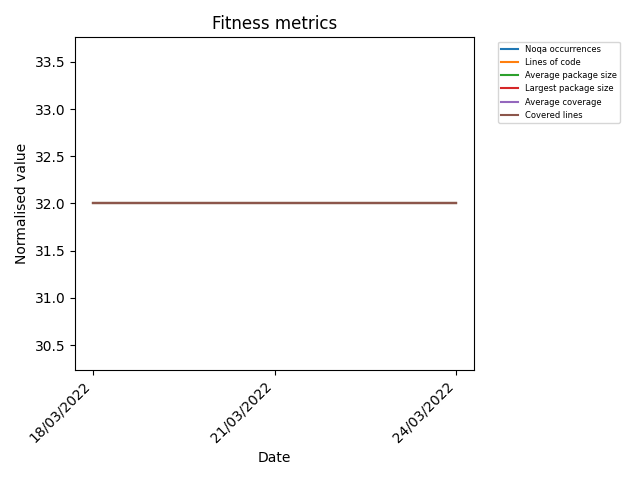
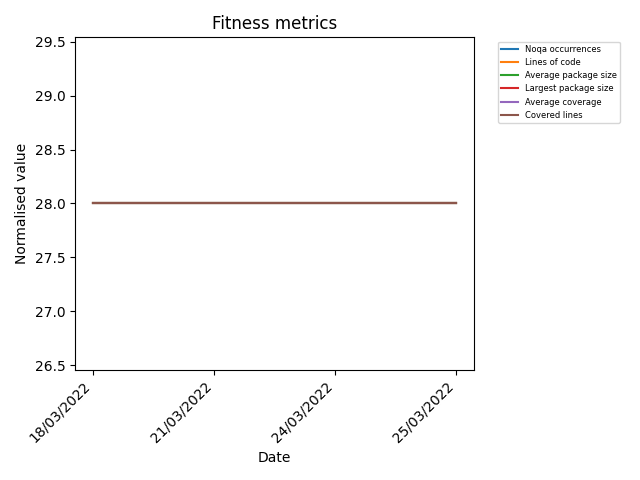
TRSV2-144: editable inform interested parties preview (#126)
* allow editable deadline

* [ci skip] AUTOMATED - update fitness functions

* [ci skip] AUTOMATED - update fitness functions

* ignore fitness functions output for now

* [ci skip] AUTOMATED - update fitness functions

* Revert "ignore fitness functions output for now"

This reverts commit 44f5a374df76a561d73f41ef7eb6d5060abf6294.

* line break

* [ci skip] AUTOMATED - update fitness functions

diff --git a/trade_remedies_caseworker/templates/cases/invite.html b/trade_remedies_caseworker/templates/cases/invite.html
@@ -24,8 +24,47 @@
         {% endif %}
     </div>
     <div class="button-set">
-        <button class="button button-blue" type="submit">Send</button>
+        <button class="button button-blue" id="sendButton" type="submit" onclick="saveButton(this)">Send</button>
         <button class="button button-grey pull-right dlg-close" type="button">Cancel</button>
     </div>
 </form>
 </div>
+
+<script>
+    jQuery('.notify-preview').bind('DOMSubtreeModified', function (event) {
+        const submitButton = jQuery('#sendButton');
+        submitButton[0].innerHTML = "Save"
+        submitButton[0].type = "button"
+    })
+
+    function saveButton(object) {
+        const dataElements = object.parentElement.parentElement.getElementsByTagName("span");
+        const dataElementsLength = dataElements.length;
+        const dataElementsDict = {};
+        for (var i = 0; i < dataElementsLength; i++) {
+            dataElementsDict[dataElements[i].title] = dataElements[i].innerText
+        }
+        dataElementsDict["case_id"] = "{{ case.id }}"
+
+        const csrf_token = object.parentElement.parentElement[0].value
+        const dataDict = {
+            data_dict: dataElementsDict,
+        };
+        if (object.innerHTML === "Save") {
+            console.log(dataDict)
+            $.ajax({
+                type: "POST",
+                headers: {
+                    "X-CSRFToken": csrf_token,
+                },
+                data: dataDict,
+                url: "{% url "invite_template_edit" %}",
+            }).then(function (result) {
+                alert(result)
+                object.innerHTML = "Send"
+                object.type = "submit"
+            });
+        }
+    }
+
+</script>

diff --git a/trade_remedies_caseworker/organisations/views.py b/trade_remedies_caseworker/organisations/views.py
@@ -1,10 +1,12 @@
+import datetime
 import json
+import logging
 import urllib.parse
 from django.views.generic import TemplateView
 from django.views import View
 from django.shortcuts import render, redirect
 from django.utils.http import urlencode
-from django.http import HttpResponse
+from django.http import HttpResponse, HttpResponseBadRequest
 from django.contrib.auth.mixins import LoginRequiredMixin
 from django_countries import countries
 from core.base import FeatureFlagMixin
@@ -49,6 +51,34 @@ org_fields = [
     "organisation_id",
     "json_data",
 ]
+
+logger = logging.getLogger(__name__)
+
+
+def invite_template_change(request):
+    if request.method != "POST":
+        logger.error(f"invite_template_change expected POST but received {request.method}")
+        return HttpResponseBadRequest()
+
+    case_id = request.POST.get("data_dict[case_id]")
+    try:
+        case_request_fields = {
+            "initiated_at": datetime.datetime.strptime(
+                request.POST.get("data_dict[deadline]"), "%d %b %Y"
+            ).replace(tzinfo=datetime.timezone.utc),
+        }
+    except ValueError:
+        case_request_fields = {
+            "initiated_at": datetime.datetime.strptime(
+                request.POST.get("data_dict[deadline]"), "%d %B %Y"
+            ).replace(tzinfo=datetime.timezone.utc),
+        }
+    if request.user.is_authenticated:
+        _client = TradeRemediesAPIClientMixin.client(request, request.user)
+        _client.update_case(case_id, case_request_fields)
+        return HttpResponse(json.dumps({"updated": True}))
+
+    return HttpResponse(json.dumps({"updated": False}))
 
 
 class BaseOrganisationTemplateView(

diff --git a/trade_remedies_caseworker/cases/views.py b/trade_remedies_caseworker/cases/views.py
@@ -2420,11 +2420,13 @@ class InviteContactView(CaseBaseView):
             "notice_of_initiation_url": self.case.get("latest_notice_of_initiation_url"),
             "company_name": organisation["name"],
             "deadline": parse_api_datetime(
-                get(self.case, "registration_deadline"), settings.FRIENDLY_DATE_FORMAT
-            ),
+                get(self.case, "initiated_at"), settings.FRIENDLY_DATE_FORMAT
+            )
+            or "1 Jan 1999",
             "footer": footer,
             "guidance_url": self._client.get_system_parameters("LINK_HELP_BOX_GUIDANCE")["value"],
             "email": email,
+            "e_additional_invite_information": "",
             "login_url": f"{settings.PUBLIC_BASE_URL}",
         }
         context = {

diff --git a/trade_remedies_caseworker/core/utils.py b/trade_remedies_caseworker/core/utils.py
@@ -228,6 +228,12 @@ def parse_notify_template(template, values):
         value = value or ""
         if key == "footer":
             template = template.replace(f"(({key}))", value.replace("\n", "</br>"))
+        elif key == "deadline":
+            value = value.replace("<", "&lt;").replace(">", "&gt;")
+            template = template.replace(
+                f"(({key}))",
+                f'<span class="notify-tag" title="{key}" contentEditable=true>{value}</span>',
+            )
         else:
             value = value.replace("<", "&lt;").replace(">", "&gt;")
             template = template.replace(

diff --git a/trade_remedies_caseworker/organisations/urls.py b/trade_remedies_caseworker/organisations/urls.py
@@ -16,6 +16,7 @@ from organisations.views import (
     OrganisationDuplicatesView,
     ToggleUserAdmin,
     OrganisationRemoveView,
+    invite_template_change,
 )
 
 
@@ -56,6 +57,11 @@ urlpatterns = [
         "case/<uuid:case_id>/organisation/<uuid:organisation_id>/contact/<uuid:contact_id>/",
         ContactFormView.as_view(),
         name="edit_contact",
+    ),
+    path(
+        "case/invite_template",
+        invite_template_change,
+        name="invite_template_edit",
     ),
     path(
         "case/<uuid:case_id>/organisation/<uuid:organisation_id>/contact/<uuid:contact_id>/delete/",
